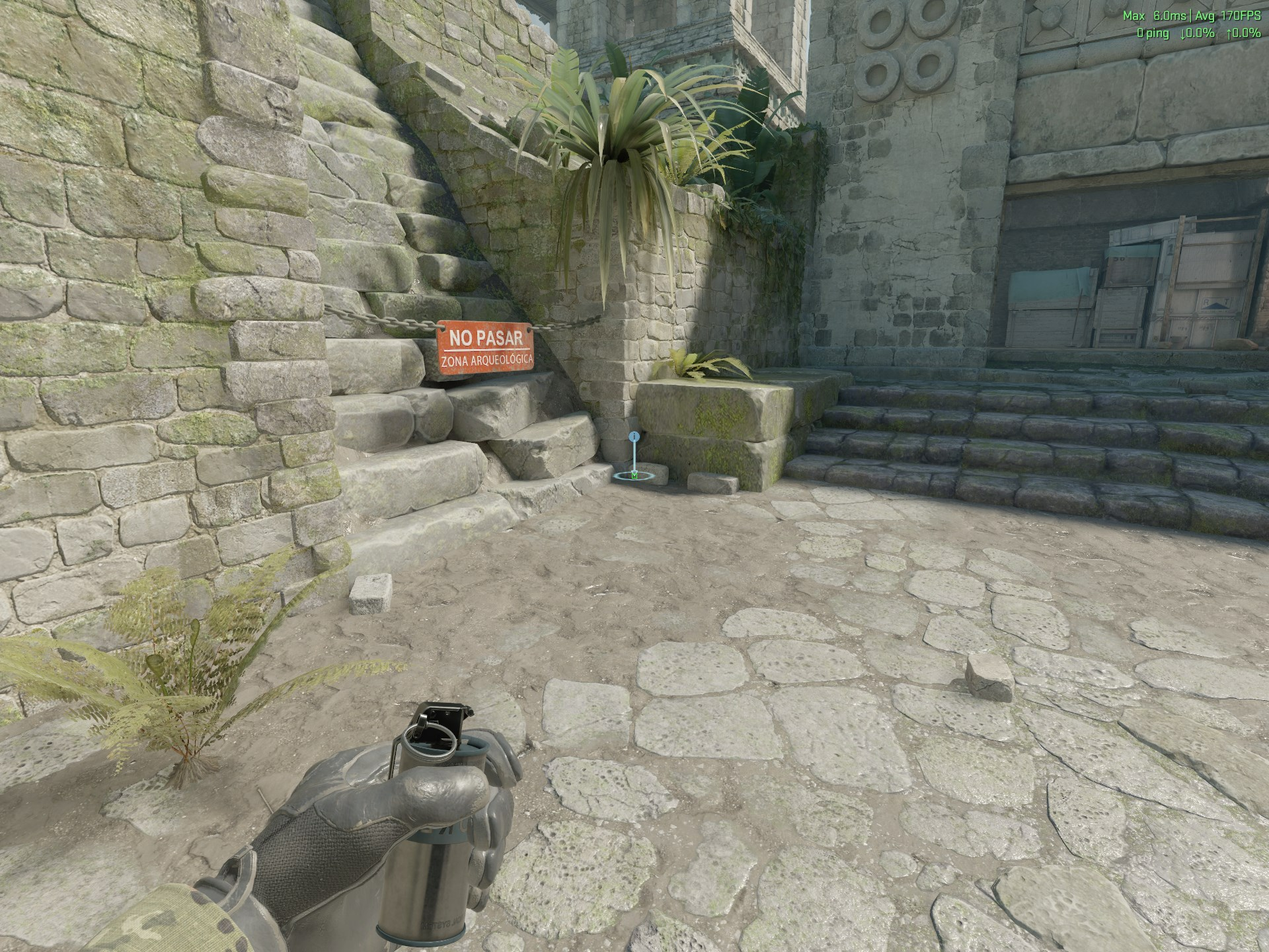
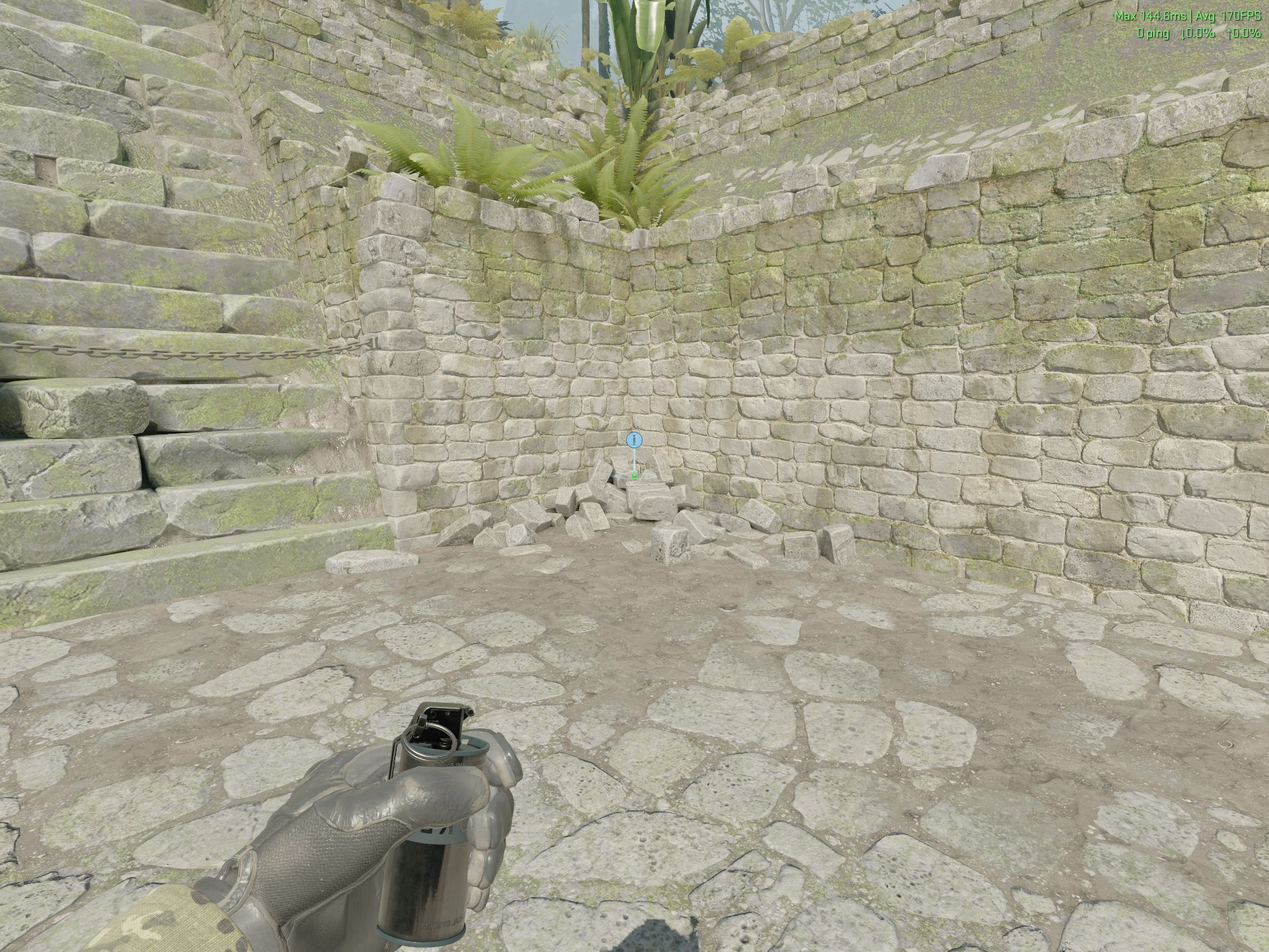
feat: faster mid counter smoke on ancient

diff --git a/maps/ancient/smokes/ct/t-mid/guide.md b/maps/ancient/smokes/ct/t-mid/guide.md
@@ -6,7 +6,10 @@
 
 ![Aim](./aim.jpg)
 
-2. Aim so that the -1 of the smoke reticle is aligned with the top-left nipple of this wall.
-3. Standing left click jump throw.
+2. Aim so that the vertical line of the smoke reticle lines up this this corner of the building and aim for the top of the building.
+
+![Aim](./release.jpg)
+
+3. Running left click jump throw (release as soon as you reach the bottom of the brick you aimed at previously).
 
 ![Result](./result.jpg)
